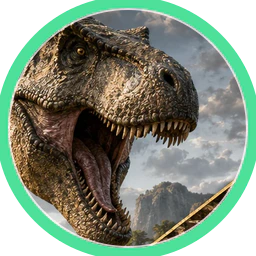
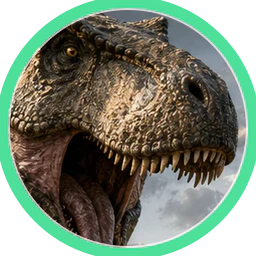
Fix Match-3 start input and T-Rex token crop

diff --git a/src/screens/Match3.jsx b/src/screens/Match3.jsx
@@ -2,7 +2,7 @@ import { useEffect, useMemo, useRef, useState } from 'react'
 import Match3FeedbackPanel from '../components/Match3FeedbackPanel.jsx'
 import { objectiveProgress } from '../match3/engine.js'
 import { MATCH3_LEVELS, MATCH3_TOKENS, getMatch3Level } from '../match3/levels.js'
-import { cellIsInPresentation, createMatch3Presentation } from '../match3/presentation.js'
+import { cellIsInPresentation, createMatch3Presentation, isMatch3BoardInputLocked } from '../match3/presentation.js'
 import Match3TokenImage from '../match3/Match3TokenImage.jsx'
 import { CardPanel } from '../ui/components.jsx'
 import { useMotionMode } from '../ui/motion.js'
@@ -60,6 +60,8 @@ export default function Match3({ onBack }) {
   async function start() {
     setBusy(true)
     setError('')
+    clearTimeout(presentationTimer.current)
+    setPresentation(null)
     try {
       const response = await playerGameApi.match3({ action: 'start', levelId: selectedLevel, requestId: uid('match3') })
       setSession(response.session)
@@ -85,7 +87,7 @@ export default function Match3({ onBack }) {
         const nextPresentation = createMatch3Presentation(previousState, response.session.state, body, motionMode)
         setSession(response.session)
         saveMatch3Resume(response.session)
-        setPresentation(nextPresentation)
+        setPresentation(nextPresentation.durationMs > 0 ? nextPresentation : null)
         if (nextPresentation.cascadeCount) {
           haptic(nextPresentation.comboType ? 'special' : nextPresentation.cascadeCount > 1 ? 'cascade' : 'medium')
           recordMatch3Event('move-resolution', {
@@ -95,7 +97,7 @@ export default function Match3({ onBack }) {
             scoreGained: nextPresentation.scoreGained,
           })
         }
-        presentationTimer.current = setTimeout(() => setPresentation(null), nextPresentation.durationMs)
+        if (nextPresentation.durationMs > 0) presentationTimer.current = setTimeout(() => setPresentation(null), nextPresentation.durationMs)
         if (response.session.state.status === 'lost' && previousState?.status !== 'lost') recordMatch3Event('level-failure', { levelId: selectedLevel })
         if (response.session.state.status === 'won' && body.action !== 'complete') queueMicrotask(() => finish(response.session))
       }
@@ -129,8 +131,8 @@ export default function Match3({ onBack }) {
 
   if (view === 'map') return <LevelMap progress={progress} onBack={onBack} onSelect={id => { setSelectedLevel(id); setView('brief') }} onReset={() => { if (confirm('Reset Match-3 development progress?')) { resetMatch3Development(); setProgress({ highestUnlockedLevel: 1, completedLevels: {} }) } }} />
   if (view === 'brief') return <Brief level={getMatch3Level(selectedLevel)} busy={busy} error={error} onBack={() => setView('map')} onStart={start} />
-  if (view === 'win') return <Result stars={stars} level={selectedLevel} movesUsed={session.state.level.moves - session.state.movesRemaining} error={error} onDouble={async () => { try { const advert = await playerGameApi.verifyAdvert({ provider: 'configured-provider', receipt: uid('receipt'), placement: 'match3-double', matchId: session.sessionId }); const response = await action({ action: 'double', advertCompletionId: advert.completionId }); setStars(response.totalStars); recordMatch3Event('stars-granted', { stars: 30, reason: 'advert-double' }) } catch { return null } }} onMap={() => setView('map')} onNext={() => { setSelectedLevel(Math.min(20, selectedLevel + 1)); setView('brief') }} />
-  return <><GameBoard session={session} busy={busy} error={error} presentation={presentation} onMove={(from, to) => action({ action: 'move', actionId: uid('move'), from, to })} onPower={(powerUp, target) => action({ action: 'power-up', actionId: uid('power'), powerUp, target }).then(() => recordMatch3Event('power-up-used', { powerUp }))} onRestart={() => action({ action: 'restart', actionId: uid('restart') })} onQuit={() => { if (confirm('Quit this level? Your current board will remain available to resume.')) setView('map') }} />{import.meta.env.DEV && <Match3FeedbackPanel level={selectedLevel} result={session.state.status === 'won' ? 'won' : session.state.status === 'lost' ? 'lost' : 'quit'} movesUsed={session.state.level.moves - session.state.movesRemaining} />}</>
+  if (view === 'win') return <Result stars={stars} level={selectedLevel} movesUsed={session.state.level.moves - session.state.movesRemaining} error={error} onDouble={async () => { try { const advert = await playerGameApi.verifyAdvert({ provider: 'configured-provider', receipt: uid('receipt'), placement: 'match3-double', matchId: session.sessionId }); const response = await action({ action: 'double', advertCompletionId: advert.completionId }); setStars(response.totalStars); recordMatch3Event('stars-granted', { stars: 30, reason: 'advert-double' }) } catch { return null } }} onMap={() => { clearTimeout(presentationTimer.current); setPresentation(null); setView('map') }} onNext={() => { clearTimeout(presentationTimer.current); setPresentation(null); setSelectedLevel(Math.min(20, selectedLevel + 1)); setView('brief') }} />
+  return <><GameBoard session={session} busy={busy} error={error} presentation={presentation} onMove={(from, to) => action({ action: 'move', actionId: uid('move'), from, to })} onPower={(powerUp, target) => action({ action: 'power-up', actionId: uid('power'), powerUp, target }).then(() => recordMatch3Event('power-up-used', { powerUp }))} onRestart={() => { clearTimeout(presentationTimer.current); setPresentation(null); action({ action: 'restart', actionId: uid('restart') }) }} onQuit={() => { clearTimeout(presentationTimer.current); setPresentation(null); if (confirm('Quit this level? Your current board will remain available to resume.')) setView('map') }} />{import.meta.env.DEV && <Match3FeedbackPanel level={selectedLevel} result={session.state.status === 'won' ? 'won' : session.state.status === 'lost' ? 'lost' : 'quit'} movesUsed={session.state.level.moves - session.state.movesRemaining} />}</>
 }
 
 function LevelMap({ progress, onBack, onSelect, onReset }) {
@@ -152,14 +154,14 @@ function Result({ stars, level, movesUsed, error, onDouble, onMap, onNext }) {
   return <main className={`${styles.result} foTheme`} data-concept-screen="route" data-screen="match3-result"><div aria-hidden="true" className={styles.resultIcon}>★</div><h1>Level complete!</h1><p className={styles.starAward}>+{stars} Stars</p><p role="alert">{error}</p>{stars === 30 && <button onClick={onDouble}>Watch verified advert to double</button>}<button className={styles.primary} onClick={onNext}>Next level</button><button onClick={onMap}>Level journey</button>{import.meta.env.DEV && <Match3FeedbackPanel level={level} result="won" movesUsed={movesUsed} />}</main>
 }
 
-function GameBoard({ session, busy, error, presentation, onMove, onPower, onRestart, onQuit }) {
+export function GameBoard({ session, busy, error, presentation, onMove, onPower, onRestart, onQuit }) {
   const state = session.state
   const [selected, setSelected] = useState(null)
   const [power, setPower] = useState(null)
   const [paused, setPaused] = useState(false)
   const drag = useRef(null)
   const level = state.level
-  const locked = paused || busy || Boolean(presentation)
+  const locked = isMatch3BoardInputLocked({ status: state.status, paused, busy, presentation })
   const rows = state.board.length
   const columns = state.board[0].length
   const summary = useMemo(() => `Level ${level.id}. ${state.movesRemaining} moves left. Score ${state.score}.`, [level.id, state.movesRemaining, state.score])
@@ -221,7 +223,7 @@ function GameBoard({ session, busy, error, presentation, onMove, onPower, onRest
     <div className={styles.boardShell} style={{ '--board-rows': rows, '--board-columns': columns }}>
       {presentation?.label && <div className={styles.comboBanner} aria-hidden="true"><strong>{presentation.label}</strong>{presentation.cascadeCount > 1 && <span>×{presentation.cascadeCount} cascade</span>}</div>}
       {presentation?.scoreGained > 0 && <div className={styles.scoreBurst} aria-hidden="true">+{presentation.scoreGained.toLocaleString()}</div>}
-      <div className={boardClass} role="grid" aria-label={summary} aria-busy={locked}>
+      <div className={boardClass} role="grid" aria-label={summary} aria-busy={locked} data-input-locked={locked ? 'true' : 'false'}>
         {state.board.map((row, rowIndex) => row.map((cell, columnIndex) => <Tile key={`${rowIndex}:${columnIndex}`} cell={cell} row={rowIndex} column={columnIndex} columns={columns} selected={selected?.r === rowIndex && selected?.c === columnIndex} presentation={presentation} onChoose={choose} onKeyDown={keyDown} onPointerDown={event => { drag.current = { x: event.clientX, y: event.clientY } }} onPointerUp={event => dragEnd(event, rowIndex, columnIndex)} onPointerCancel={() => { drag.current = null }} />))}
       </div>
       <BoardEffects presentation={presentation} rows={rows} columns={columns} />

diff --git a/tests-ui/match3-input.test.jsx b/tests-ui/match3-input.test.jsx
@@ -1,0 +1,45 @@
+import { fireEvent, render, screen } from '@testing-library/react'
+import { expect, test, vi } from 'vitest'
+import { createGame, legalMoves } from '../src/match3/engine.js'
+import { MATCH3_LEVELS } from '../src/match3/levels.js'
+import { GameBoard } from '../src/screens/Match3.jsx'
+
+const props = {
+  busy: false,
+  error: '',
+  presentation: null,
+  onMove: vi.fn(() => Promise.resolve()),
+  onPower: vi.fn(() => Promise.resolve()),
+  onRestart: vi.fn(),
+  onQuit: vi.fn(),
+}
+
+test('every development level exposes an interactive board and selects a legal first token', () => {
+  for (const level of MATCH3_LEVELS) {
+    const game = createGame(level, 20260719 + level.id)
+    const move = legalMoves(game.board)[0]
+    const { unmount } = render(<GameBoard {...props} session={{ state: game }}/>)
+    const board = screen.getByRole('grid')
+    expect(board).toHaveAttribute('data-input-locked', 'false')
+    fireEvent.click(screen.getByRole('gridcell', { name: new RegExp(`Row ${move.from.r + 1}, column ${move.from.c + 1}:`) }))
+    expect(screen.getByRole('gridcell', { name: new RegExp(`Row ${move.from.r + 1}, column ${move.from.c + 1}:`) })).toHaveAttribute('aria-selected', 'true')
+    unmount()
+  }
+}, 20000)
+
+test('mouse, keyboard and pointer swipe paths reach the same legal move handler', () => {
+  const game = createGame(MATCH3_LEVELS[0], 42)
+  const move = legalMoves(game.board)[0]
+  const onMove = vi.fn(() => Promise.resolve())
+  const { unmount } = render(<GameBoard {...props} onMove={onMove} session={{ state: game }}/>)
+  const from = screen.getByRole('gridcell', { name: new RegExp(`Row ${move.from.r + 1}, column ${move.from.c + 1}:`) })
+  const to = screen.getByRole('gridcell', { name: new RegExp(`Row ${move.to.r + 1}, column ${move.to.c + 1}:`) })
+  fireEvent.click(from)
+  fireEvent.keyDown(to, { key: 'Enter' })
+  expect(onMove).toHaveBeenCalled()
+  onMove.mockClear()
+  fireEvent.pointerDown(from, { clientX: 10, clientY: 10 })
+  fireEvent.pointerUp(from, { clientX: 10 + (move.to.c - move.from.c) * 40, clientY: 10 + (move.to.r - move.from.r) * 40 })
+  expect(onMove).toHaveBeenCalled()
+  unmount()
+})

diff --git a/tests/match3-input.test.js b/tests/match3-input.test.js
@@ -1,0 +1,24 @@
+import assert from 'node:assert/strict'
+import test from 'node:test'
+import { MATCH3_LEVELS } from '../src/match3/levels.js'
+import { createGame, legalMoves } from '../src/match3/engine.js'
+import { isMatch3BoardInputLocked } from '../src/match3/presentation.js'
+
+test('a legal first move is available after the start sequence for every development level', () => {
+  for (const level of MATCH3_LEVELS) {
+    const state = createGame(level, 20260719 + level.id)
+    assert.equal(state.status, 'active', `level ${level.id} starts active`)
+    assert.ok(legalMoves(state.board).length > 0, `level ${level.id} starts with a legal move`)
+    assert.equal(isMatch3BoardInputLocked({ status: state.status, busy: false, paused: false, presentation: null }), false, `level ${level.id} accepts input after start`)
+  }
+})
+
+test('only real resolving, paused, busy or blocking states lock the board', () => {
+  assert.equal(isMatch3BoardInputLocked({ status: 'active' }), false)
+  assert.equal(isMatch3BoardInputLocked({ status: 'active', presentation: { durationMs: 0 } }), false)
+  assert.equal(isMatch3BoardInputLocked({ status: 'active', presentation: { durationMs: 300 } }), true)
+  assert.equal(isMatch3BoardInputLocked({ status: 'active', busy: true }), true)
+  assert.equal(isMatch3BoardInputLocked({ status: 'active', paused: true }), true)
+  assert.equal(isMatch3BoardInputLocked({ status: 'lost' }), true)
+})
+

diff --git a/src/match3/tokenCrops.js b/src/match3/tokenCrops.js
@@ -40,8 +40,8 @@ export const MATCH3_TOKEN_CROPS = Object.freeze([
     label: 'Tyrannosaurus rex',
     sourceCardId: 'mastersOfTheLostWorld:1',
     sourceAsset: '/images/cards/mastersOfTheLostWorld/1.webp',
-    focalPoint: { x: 0.57, y: 0.29 },
-    zoom: 2.98,
+    focalPoint: { x: 0.56, y: 0.26 },
+    zoom: 4.2,
     rotation: 0,
     accessibleLabel: 'Roaring Tyrannosaurus rex card portrait',
     fallbackAsset: '/images/back.webp',
@@ -49,7 +49,7 @@ export const MATCH3_TOKEN_CROPS = Object.freeze([
     accent: '#4ee09b',
     review: {
       status: 'approved',
-      notes: 'Open jaw, eye and teeth dominate the crop without including card text.',
+      notes: 'Tight head crop keeps the eye, brow, open mouth and teeth readable at 32 px while excluding scenery, card text and the fossil panel.',
       flags: [],
     },
   },

diff --git a/src/match3/presentation.js b/src/match3/presentation.js
@@ -40,3 +40,7 @@ export function createMatch3Presentation(previousState, nextState, action = {}, 
 export function cellIsInPresentation(presentation, group, row, column) {
   return Boolean(presentation?.[group]?.some(position => position.r === row && position.c === column))
 }
+
+export function isMatch3BoardInputLocked({ status = 'active', paused = false, busy = false, presentation = null } = {}) {
+  return status !== 'active' || paused || busy || Number(presentation?.durationMs ?? 0) > 0
+}

diff --git a/FLIPOUT_CURRENT_STATE.md b/FLIPOUT_CURRENT_STATE.md
@@ -479,3 +479,10 @@ Focused lint for the newly added transaction service, backend helper/endpoints, 
 - The profile will persist the opaque `selected_avatar_id`, never an image path. The server accepts starter catalogue IDs only, allows a same-ID retry and prevents a different later overwrite. Promo-only avatars remain registered but unavailable during first-time setup.
 - The Home header renders the selected catalogue asset inside the existing avatar frame. The avatar grid is safe-area aware, keyboard/touch accessible, screen-reader labelled and respects reduced motion.
 - Migration 013 committed to Railway Preview at `2026-07-19T15:06:07.320Z`; `fo_accounts.selected_avatar_id` was verified nullable. Preview verification passed 11/11 server/database tests and 19/19 focused UI tests; focused lint passed and the 145-module production build passed. Ready Preview: `https://flip-9ul60548p-chattocal.vercel.app` (`dpl_78BWjkMnTLa5ptny8a3KjHfqbk5E`). A first verification attempt hit a transient Railway connection termination in the nickname DB test after migration; serialised DB tests passed on the immediate rerun. Production was not touched.
+
+## Match-3 input and T-Rex token correction — 19 July 2026
+
+- **Status: Implemented and verified in Preview.** The input defect was caused by stale `presentation` state surviving a level transition/restart. `GameBoard` treated any truthy presentation object as a permanent lock, including old move effects and zero-duration restart presentations.
+- The fix clears presentation timers/state at level start, restart, quit, map and next-level transitions; only a positive-duration presentation is now a genuine resolving lock. Active boards are explicitly marked `data-input-locked="false"`. Tap/click, pointer swipe and keyboard selection are covered by regression tests.
+- The T-Rex token remains sourced from `mastersOfTheLostWorld:1` and is now cropped at focal point `x=0.56, y=0.26` with zoom `4.2`. This tightly includes the eye, brow, open mouth and teeth while removing card text, fossil scenery and ambiguous body fragments. Deterministic regeneration updated the WebP and quality report; closest 32px pair is `leaf / drop` at `0.1856` (threshold `0.16`).
+- Verification: 32/32 focused Node engine/token tests passed; 8/8 focused Match-3 UI/token tests passed; focused lint passed; production build passed with 145 modules. Preview `https://flip-6gkw201j4-chattocal.vercel.app` (`dpl_2iLM8jScemputLVFeE6zkwRs2bhj`) reached Ready. Production was not touched.

diff --git a/FLIPOUT_COMPLETION_REPORT.md b/FLIPOUT_COMPLETION_REPORT.md
@@ -195,3 +195,11 @@ First-time players now choose a case-preserving display nickname before Home; th
 ## One-time avatar onboarding â€” 19 July 2026
 
 The nickname flow now continues to a required avatar choice before Home. Existing portrait artwork is registered once in `src/data/avatarCatalog.js`; profiles persist only an opaque `selected_avatar_id`, while UUID `player_id` remains the identity. The server permits starter IDs, blocks locked/unknown IDs, never overwrites a selected avatar and treats a same-ID retry safely. The Home header displays the selected asset. Migration 013 committed to Preview Railway at `2026-07-19T15:06:07.320Z`; Preview verification passed 11/11 server/database tests and 19/19 focused UI tests, focused lint passed and the 145-module production build passed. Ready Preview: `https://flip-9ul60548p-chattocal.vercel.app` (`dpl_78BWjkMnTLa5ptny8a3KjHfqbk5E`). One initial run hit a transient Railway connection termination after migration; the immediate serialised rerun passed cleanly. No authentication, economy or production system changed.
+
+## Match-3 input and T-Rex token correction — 19 July 2026
+
+The blocked-board defect was a stale presentation lock: the previous move’s presentation survived level transitions, and restart created a truthy presentation even when its duration was zero. Start/restart/next/map/quit now clear that state, and the board locks only while active API work, a pause/blocking dialog, a non-active game state or a positive-duration resolution is present.
+
+The T-Rex crop remains `mastersOfTheLostWorld:1`, with focal point `(0.56, 0.26)` and zoom `4.2`. The regenerated token keeps the eye, brow, open mouth and teeth legible at gameplay sizes. Actual-size review and pairwise quality checks passed; closest 32px pair `leaf / drop` measured `0.1856` against the `0.16` minimum.
+
+Verification passed: 32/32 focused Node engine/token tests, 8/8 focused Match-3 UI/token tests, focused lint and the 145-module production build. Preview `https://flip-6gkw201j4-chattocal.vercel.app` (`dpl_2iLM8jScemputLVFeE6zkwRs2bhj`) reached Ready. Production was not touched.
